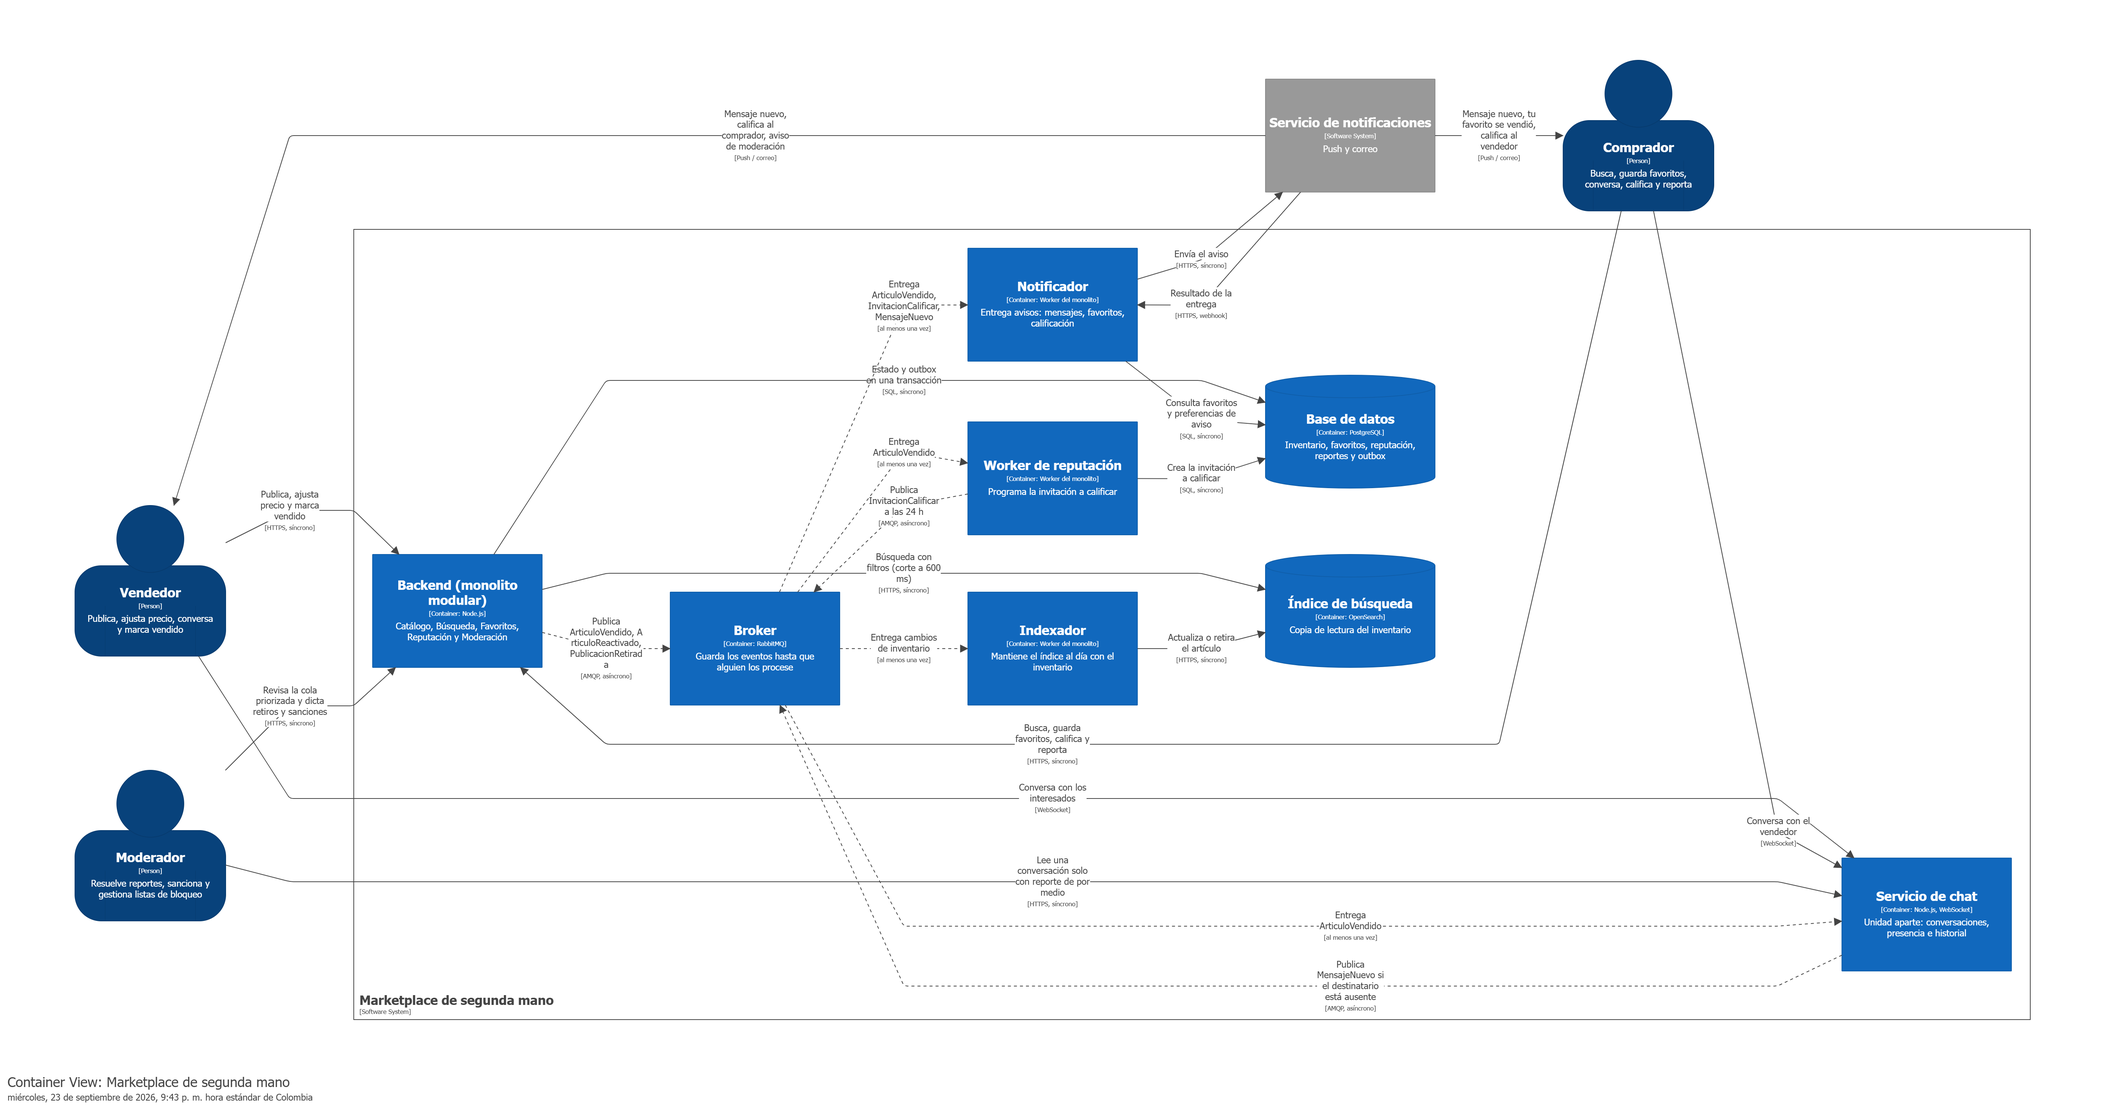
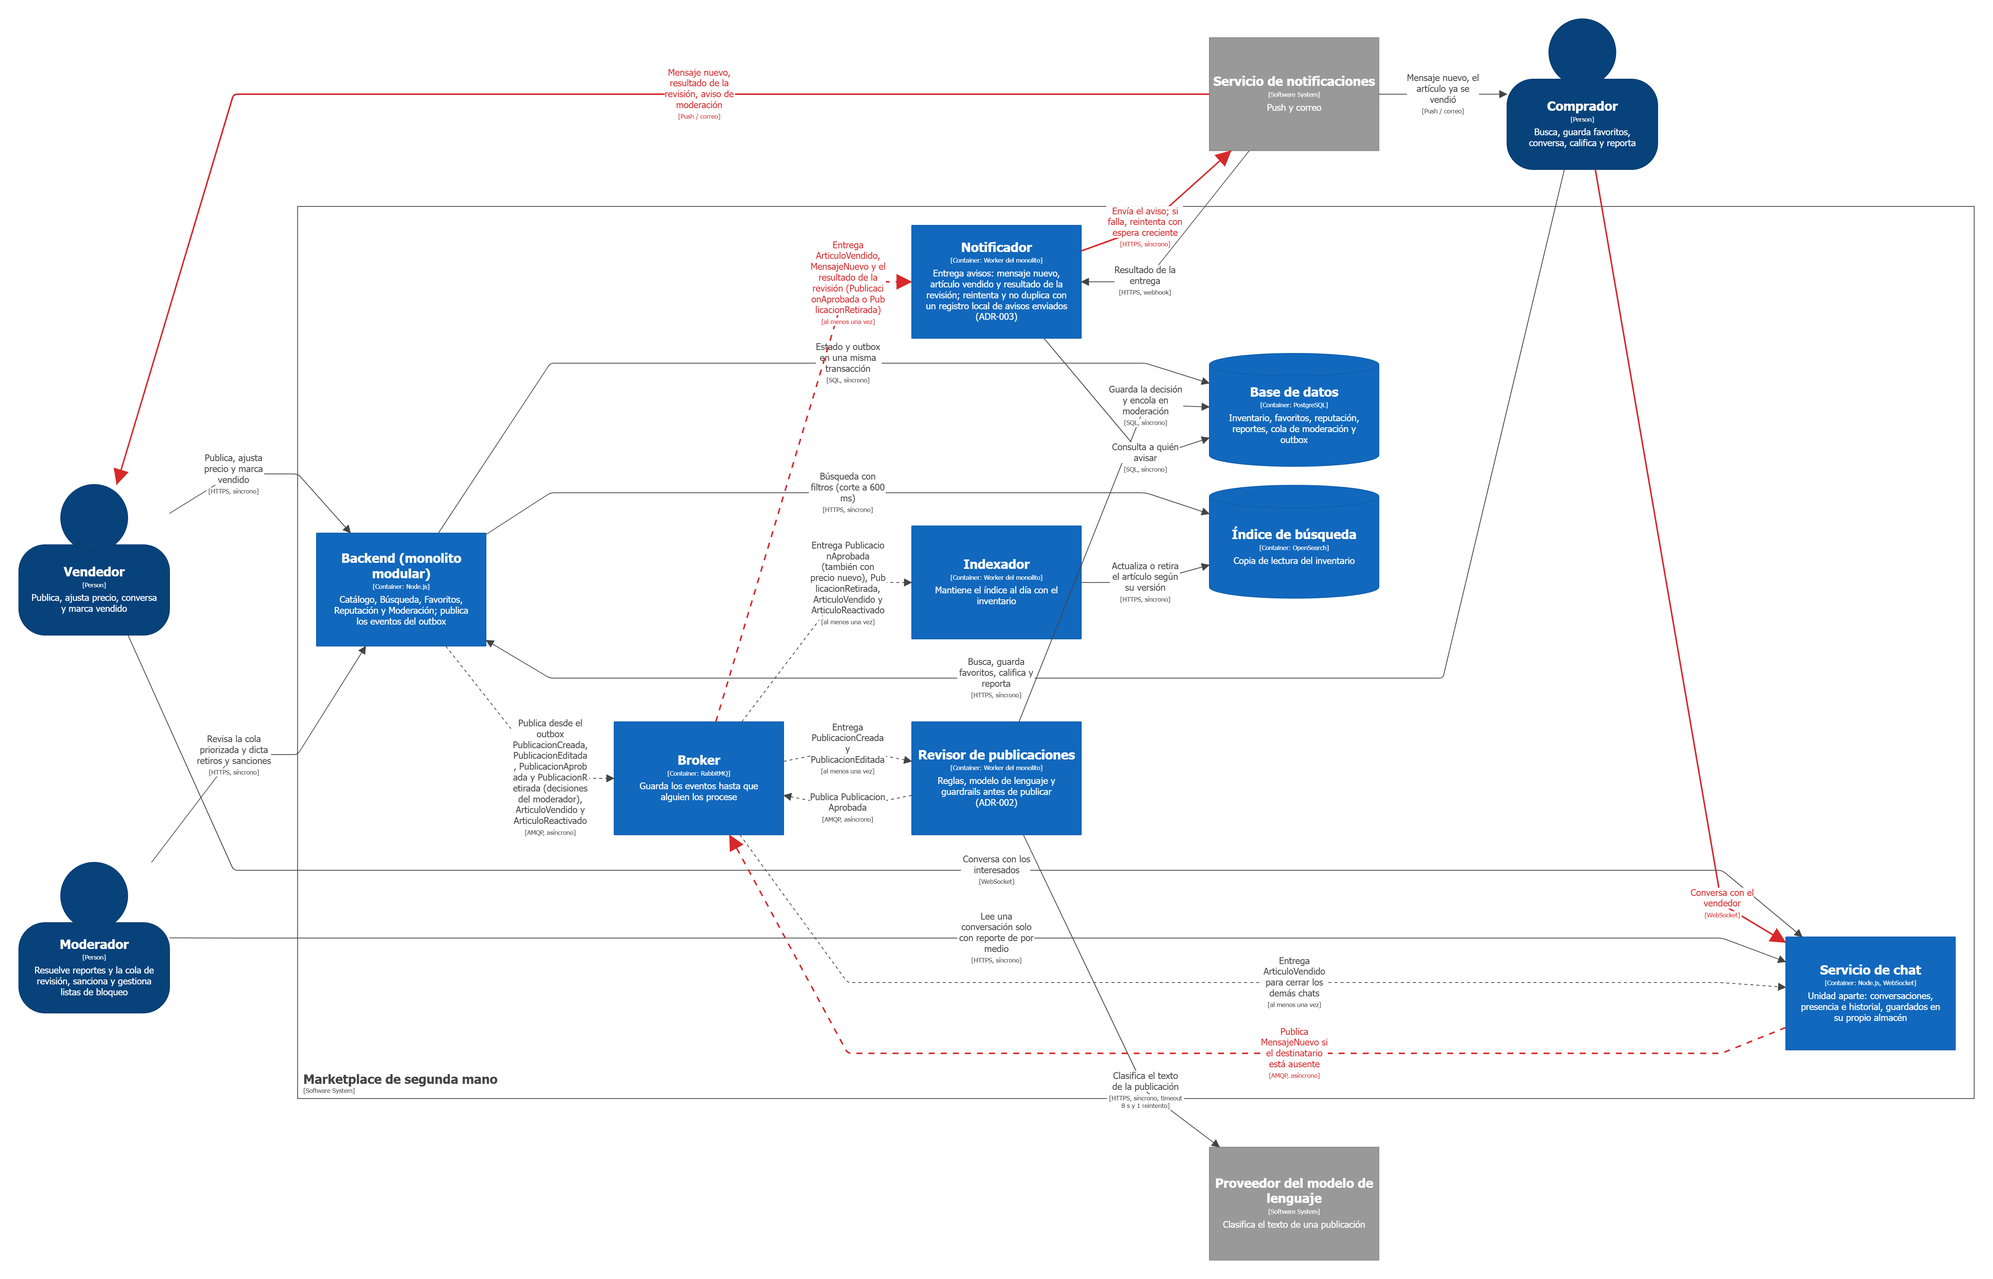
docs: ADR-002 revision previa de publicaciones y actualizacion de contenedores, reemplazo de la imagen por la actualizada

diff --git a/docs/adr/ADR-002-revision-previa-de-publicaciones.md b/docs/adr/ADR-002-revision-previa-de-publicaciones.md
@@ -1,0 +1,120 @@
+# ADR-002: Las publicaciones nuevas pasan por reglas y un modelo de lenguaje antes de mostrarse; solo un moderador retira o sanciona
+
+Estado: propuesto
+Proyecto: Marketplace de segunda mano · Grupo 8
+Escenarios relacionados: QA-1 (una publicación nueva aparece en ≤ 30 s), QA-2 (costo por usuario) y la restricción del caso sobre el equipo de moderación
+
+## Contexto y fuerzas
+
+El caso dice que el spam y las estafas «llegan solos» y que la moderación es parte del negocio (RF-06). Hoy la cola de moderación solo se alimenta de reportes: cuando uno llega, algún comprador ya vio la publicación y quizás ya escribió o pagó. La pregunta abierta del caso es qué señales alimentan la cola y cómo se prioriza con un equipo pequeño. Este ADR decide si un modelo de lenguaje ayuda a responderla, y dónde.
+
+- **Antifraude como requisito, no como eje de arbitraje.** El ADR-000 (D3) dice que el antifraude es «requisito y trabajo de producto, no eje de arbitraje en esta fase». Este ADR lo respeta: el revisor es un requisito, y se arbitra con QA-1 (no pasar de 30 s para aparecer) y con QA-2 (el techo de costo), sin volverlo un atributo rector.
+- **Gravedad del error, asimétrica.** Un falso negativo deja visible una estafa o un artículo prohibido, y en una plataforma donde dos desconocidos quedan de verse la confianza es el producto (ADR-000). Un falso positivo retiene una publicación legítima hasta que un moderador la mira: molesta, pero se corrige. Por eso el error caro lo decide una persona, y el modelo nunca puede retirar ni sancionar.
+- **Tiempo.** QA-1 (M2) promete que una publicación nueva aparece en ≤ 30 s (p95). La revisión automática tiene que caber en ese presupuesto.
+- **Volumen.** El entorno de QA-1 fija 300 altas o modificaciones por hora en el pico. Como cota superior: 300 × 24 h × 30 días = 216.000 revisiones al mes.
+- **Costo.** La plataforma es gratuita, y QA-2 pone el gasto de imágenes en unos USD 1.000 al mes (500.000 usuarios activos × USD 0,002). Supuesto del equipo: la moderación automática no puede costar más del 20 % de eso, USD 200 al mes, o sea ≤ USD 0,00092 por revisión en la cota superior. En tokens: unos 700 de entrada (instrucciones más 1.000 caracteres de texto) y unos 60 de salida (el JSON) por revisión, así que cabe cualquier modelo cuyo precio combinado sea ≤ ≈ USD 1,2 por millón de tokens (0,00092 ÷ 760). Los dos tamaños son supuestos del equipo.
+- **Capacidad humana.** Supuesto del equipo, a validar: 2 moderadores por turno con unos 40 casos por hora cada uno (90 s por caso), 80 casos/h. Si los reportes ocupan unos 20/h, quedan 60/h para la revisión previa: con 300 altas/h, a lo sumo el 20 % puede ir a una persona.
+- **Datos.** El modelo recibe solo el texto público de la publicación, nunca las conversaciones, que el caso declara privadas. Teléfonos, correos y enlaces se enmascaran antes de enviar, porque el proveedor es un tercero (Ley 1581 de 2012).
+- **¿Cabe en un `if`?** En parte. Una regla resuelve la lista de bloqueo que ya gestiona el moderador, un contacto externo, un precio muy por debajo de su categoría o un texto que le da instrucciones al revisor. No resuelve la paráfrasis («celu de remate, no pregunte procedencia»), la ortografía alterada a propósito, los eufemismos («réplica AAA») ni el patrón de estafa por pago anticipado. Esa parte es la que justificaría un modelo.
+
+## Decisión
+
+Toda publicación nueva (`PublicacionCreada`), o con título, descripción o precio editados (`PublicacionEditada`), pasa por un **revisor de publicaciones** (worker del monolito) antes de entrar al índice. **Solo lo aprobado entra al índice:** el revisor (o el moderador) publica `PublicacionAprobada`, que es lo único que consume el indexador, también cuando la publicación sale sin el modelo. Combina los patrones **guardrails** y **human-in-the-loop** en cuatro capas:
+
+1. **Reglas.** Marcan una palabra de la lista de bloqueo, un precio por debajo del 20 % de la mediana de su categoría o un texto que le da instrucciones al revisor. El contacto externo se oculta en la publicación (la negociación va por el chat) y además **marca**: la publicación va a la cola con el motivo «contacto externo», en la prioridad más baja. Un cambio de precio solo pasa por esta capa y, si no marca, se publica como `PublicacionAprobada` con el precio nuevo.
+2. **Modelo de lenguaje.** Recibe título, descripción (máximo 1.000 caracteres), categoría, precio y zona, y responde un JSON con `decision` (`APROBAR` o `REVISAR`), `motivo` (lista cerrada: prohibido, estafa, precio, ninguno) y `evidencia` (el fragmento literal que lo justifica). Timeout de 8 s y un solo reintento tras 0,5 s. No tiene herramientas ni permisos: su respuesta es un dato que el código valida.
+3. **Guardrail de salida.** Rechaza el JSON que no cumple el formato, descarta un `APROBAR` cuya evidencia no aparece en el texto. **Un `REVISAR` nunca se descarta:** si su evidencia no está en el texto, va a la cola con el motivo «evidencia no verificable», porque una alarma mal justificada no puede convertirse en una publicación sin revisar. También y aplica «gana la decisión más restrictiva»: si las reglas marcaron algo, el `APROBAR` del modelo no cuenta.
+4. **Moderador.** Todo `REVISAR` entra a la cola con prioridad: prohibido, luego estafa, luego evidencia no verificable, luego precio, luego contacto externo, ajustada por la reputación del vendedor y sus reportes previos. Solo el moderador aprueba, retira o sanciona: si aprueba, el backend publica `PublicacionAprobada`; si retira, publica `PublicacionRetirada` y el indexador la saca del índice (también lo que entró por la revisión diferida, el muestreo o un reporte).
+
+Si el modelo no da una respuesta válida (no responde, el JSON no cumple el formato o aprueba con una evidencia que no está en el texto), el revisor sigue sin él: si las reglas no marcaron nada y el vendedor es de bajo riesgo (cuenta de más de 30 días y al menos una venta), la publicación sale y queda en **revisión diferida**, que se repite cuando el proveedor vuelve; si no, va a la cola. Además, el 2 % de las publicaciones aprobadas automáticamente va a la cola con prioridad baja, para medir los errores que nadie reporta. Cada decisión deja una traza: publicación, versión de las instrucciones y del modelo, respuesta del modelo, decisión final y tiempo.
+
+## Alternativas descartadas
+
+| Alternativa                                              | Qué ganábamos                                                                                                       | Por qué la descartamos                                                                                                                                                                                                                                                                                                                                                                                            |
+| -------------------------------------------------------- | --------------------------------------------------------------------------------------------------------------------- | ------------------------------------------------------------------------------------------------------------------------------------------------------------------------------------------------------------------------------------------------------------------------------------------------------------------------------------------------------------------------------------------------------------------ |
+| **Sin modelo de lenguaje: solo reglas y reportes** | Costo cero por revisión, comportamiento determinista, ningún proveedor externo ni datos que salgan de la plataforma | Las reglas solo ven lo que alguien ya escribió en la lista: la paráfrasis y la ortografía alterada pasan, y la estafa se detecta por reportes, cuando un comprador ya quedó expuesto. Mantener a mano una lista que los estafadores esquivan en días no escala con un equipo pequeño. Las reglas se quedan como primera capa, y el modelo tiene que ganarles en el conjunto de evaluación; si no, se retira |
+| Revisión humana de todas las publicaciones              | La mayor precisión posible                                                                                           | 300 altas/h contra unos 60 casos/h de capacidad: la cola crecería unas 240 por hora, justo lo que el caso prohíbe («priorizar, no acumular»), y ninguna publicación cumpliría los 30 s de QA-1                                                                                                                                                                                                               |
+| El modelo decide solo, sin persona                       | Cero carga para los moderadores                                                                                       | Retirar o sancionar por un error del modelo es caro y difícil de revertir para el vendedor, y una inyección en la descripción podría dirigir esa acción                                                                                                                                                                                                                                                       |
+| Modelo que revisa texto y fotos                          | Detecta lo que solo se ve en la imagen                                                                                | Con 3 a 10 fotos por publicación, el costo de cada revisión se multiplica y rompe el techo de USD 0,00092. Se revisa cuando llegue la monetización o si los reportes muestran fraudes que solo se ven en la foto                                                                                                                                                                                                |
+| Clasificador propio entrenado                            | Menor costo por consulta                                                                                              | En el primer año no hay datos etiquetados. Las decisiones de los moderadores en la cola los van a producir; se reevalúa en seis meses                                                                                                                                                                                                                                                                            |
+
+## Modo de falla y control
+
+El modelo puede fallar de forma visible (no responde o responde sin el formato) o silenciosa (inventa la evidencia, o aprueba lo que no debía, por error o por una inyección escrita en la descripción). El diagrama muestra el camino de la falla, qué la detecta y cómo termina cada rama.
+
+```mermaid
+sequenceDiagram
+    autonumber
+    actor V as Vendedor
+    participant B as Backend (catálogo)
+    participant R as Revisor de publicaciones
+    participant M as Proveedor del modelo
+    participant C as Cola de moderación
+    actor Mo as Moderador
+
+    V->>B: Publica (título, descripción, precio)
+    B-->>V: Publicación recibida, en revisión
+    B->>R: PublicacionCreada (por el broker)
+    R->>R: Capa 1, reglas: lista de bloqueo, precio, instrucciones al revisor
+    R->>M: Capa 2, clasifica el texto (HTTPS, timeout 8 s)
+
+    alt El modelo no responde, responde sin el formato o aprueba con evidencia inventada
+        M--xR: Nada en 8 s, JSON inválido o APROBAR con evidencia que no está en el texto
+        R->>M: Un solo reintento tras 0,5 s
+        M--xR: Vuelve a fallar
+        Note over R: Lo detectan el timeout y el guardrail de salida (formato y evidencia)
+        alt Las reglas no marcaron nada y el vendedor es de bajo riesgo
+            R->>B: PublicacionAprobada sin el modelo, con revisión diferida
+            B-->>V: Tu publicación ya es visible
+        else Las reglas marcaron algo o el vendedor es nuevo
+            R->>C: Encola con prioridad según el motivo
+        end
+    else El modelo pide revisar, pero su evidencia no está en el texto
+        M-->>R: REVISAR con evidencia no verificable
+        Note over R: Lo detecta el guardrail de evidencia, y una alarma nunca se descarta
+        R->>C: Encola con motivo «evidencia no verificable»
+    else El modelo aprueba lo que las reglas marcaron, o una inyección le pide aprobar
+        M-->>R: APROBAR
+        Note over R: Lo detecta el guardrail: gana la decisión más restrictiva
+        R->>C: Encola con la prioridad del motivo que marcó la regla
+    end
+
+    opt El caso quedó en la cola
+        C->>Mo: Caso con texto, motivo, evidencia y antecedentes del vendedor
+        Mo->>B: Aprueba, retira o sanciona
+        B-->>V: Resultado de la revisión y su motivo
+    end
+```
+
+Lo que este control no detecta: si el modelo aprueba y las reglas no ven nada (por ejemplo, una inyección que esquiva la regla), la publicación sale. El daño queda acotado porque el modelo no tiene permisos: el peor caso es el mismo de hoy sin modelo, y lo detectan después el muestreo del 2 % y los reportes.
+
+## Cómo se mide que funciona
+
+**Conjunto de evaluación.** 60 publicaciones escritas por el equipo a partir de patrones de cada categoría del caso (muebles, tecnología, bicicletas, ropa): 40 legítimas, 10 de ellas difíciles a propósito (precio bajo por un daño declarado, pero por encima del umbral de la regla de precio; palabras parecidas a las prohibidas en un contexto legal), y 20 problemáticas: 6 artículos prohibidos, 8 estafas o señales de robo, 2 con contacto externo y 4 con instrucciones inyectadas en la descripción. Dos integrantes etiquetan cada caso por separado con la lista escrita de prohibidos y señales de estafa; si no coinciden, decide un tercero.
+
+| Medida                                               | Umbral              | De dónde sale                                                                                                                                                                                                                                                                                                                                |
+| ---------------------------------------------------- | ------------------- | --------------------------------------------------------------------------------------------------------------------------------------------------------------------------------------------------------------------------------------------------------------------------------------------------------------------------------------------- |
+| Problemáticas aprobadas sin persona                 | 0 de 20             | Una estafa visible no se compensa: el comprador ya quedó expuesto. Es el «0 daños» del ejemplo de clase                                                                                                                                                                                                                                   |
+| Legítimas enviadas a revisión                      | ≤ 4 de 40 (10 %)   | La capacidad de la cola: con 60 casos/h y 300 altas/h, un 10 % de falsos positivos más los positivos reales (supuesto: 5 %) suman unos 44 casos/h, y el muestreo del 2 % de lo aprobado otros 5/h: unos 49; el contacto externo, que también va a la cola, suma poco porque la negociación va por el chat (supuesto a medir el primer mes) |
+| Problemáticas que detecta el modelo y no las reglas | ≥ 6 de 20          | Es lo que justifica pagar el modelo: si las reglas solas ya las detectan, el modelo sobra y este ADR se revisa                                                                                                                                                                                                                                |
+| Misma decisión al repetir el caso                   | ≥ 9 de 10 corridas | El modelo no es determinista; una decisión que cambia al repetir no sirve para moderar                                                                                                                                                                                                                                                       |
+| Costo por revisión                                  | ≤ USD 0,00092      | El techo derivado de QA-2 (USD 200 al mes en la cota superior)                                                                                                                                                                                                                                                                                |
+
+El conjunto se corre antes de activar el revisor y cada vez que cambien las instrucciones, el modelo o el proveedor, que puede actualizar el modelo sin avisar. Cada mes se suman 10 casos nuevos tomados de las decisiones de los moderadores.
+
+## Consecuencias
+
+**Lo que mejora**
+
+- La cola recibe señales antes de que un comprador quede expuesto, con un motivo y una evidencia que el moderador verifica en segundos: prioriza en lugar de acumular.
+- Las decisiones de los moderadores se vuelven casos etiquetados, primero para el conjunto de evaluación y después para un clasificador propio.
+
+**Lo que empeora, y aceptamos**
+
+- **Costo nuevo y un proveedor más:** hasta USD 200 al mes en la cota superior, y un tercero que puede cambiar el modelo sin avisar; por eso el conjunto de evaluación se vuelve a correr.
+- **Latencia:** en el peor caso (timeout, reintento y otro timeout) el revisor tarda 16,5 s, todavía dentro de los 30 s de QA-1. Las publicaciones que van a la cola no cumplen esos 30 s: QA-1 (M2) pasa a aplicar a las aprobadas automáticamente, y las de la cola necesitan su propia meta (propuesta: revisadas en ≤ 4 h dentro del horario de moderación). Es la revisión del ADR-000 que él mismo previó «con la llegada del primer requisito nuevo».
+- **Falsos positivos:** hasta el 10 % de las publicaciones legítimas espera a un moderador, más las que traen un contacto externo o un precio por debajo de la regla, y el vendedor ve «en revisión».
+- **Degradación con riesgo:** si el proveedor del modelo cae, las publicaciones de bajo riesgo salen solo con reglas, y durante la caída puede colarse algo que el modelo habría marcado; la revisión diferida lo recoge cuando el proveedor vuelve.
+- **Datos personales:** el texto viaja a un tercero. Se enmascaran los contactos, se necesita un acuerdo de tratamiento de datos con el proveedor (Ley 1581 de 2012) y las trazas guardan solo lo necesario, con retención limitada.
+- **Amplía la frontera del ADR-000 (D5),** que admite un solo sistema externo: el proveedor del modelo es el segundo, como pide el enunciado. El ADR-000 se revisa, como él mismo prevé con el primer requisito nuevo.
+- **Una pieza más en la vista:** el revisor de publicaciones y el proveedor del modelo como sistema externo, con «HTTPS, síncrono, timeout 8 s».
